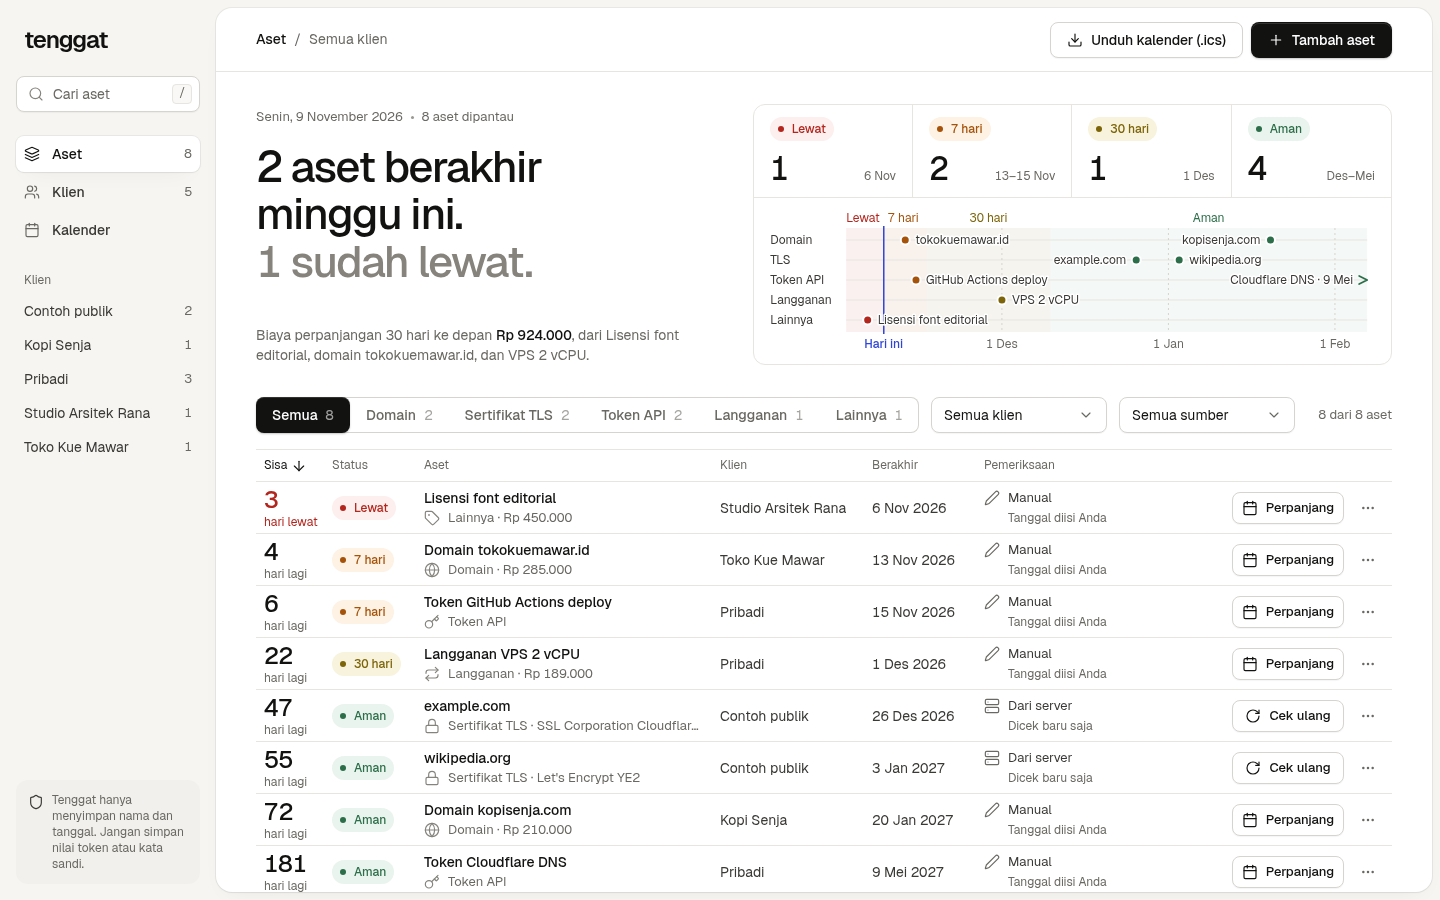
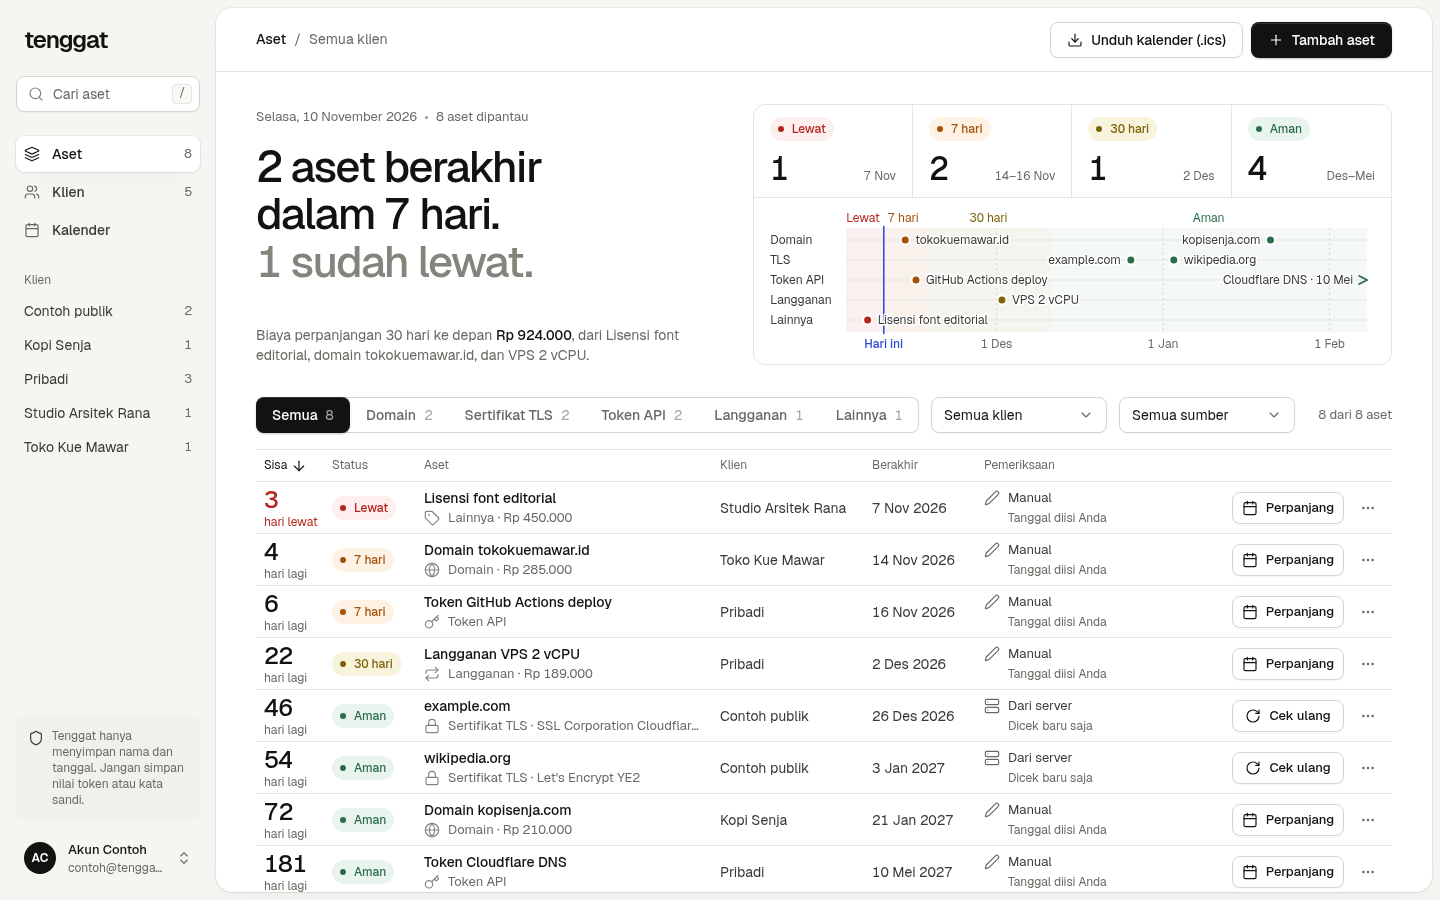
docs: accounts, privacy notes and auth endpoints in the README

diff --git a/README.md b/README.md
@@ -15,11 +15,12 @@ yang punya website atau toko online, dan tim IT kecil.
 
 ## Fitur
 
+- Akun: daftar, masuk, keluar, dan hapus akun. Setiap pengguna hanya melihat asetnya sendiri.
 - Satu daftar aset dengan status otomatis dari sisa hari: **Lewat**, **7 hari**, **30 hari**, **Aman**.
 - Sertifikat TLS dibaca langsung dari server (port 443) dan dicek ulang berkala; kegagalan cek ikut tercatat.
 - Ekspor kalender `.ics` dengan pengingat 30 dan 7 hari sebelumnya.
 - Filter per status dan klien, ringkasan jumlah per status.
-- Hanya menyimpan nama dan tanggal; nilai token atau kata sandi tidak pernah disimpan.
+- Hanya menyimpan nama dan tanggal aset; nilai token atau kata sandi layanan tidak pernah disimpan.
 - Host yang mengarah ke alamat lokal atau privat ditolak, sehingga fitur cek tidak bisa dipakai untuk mengintip
   jaringan internal (SSRF).
 
@@ -49,7 +50,9 @@ cp .env.example .env
 docker compose up -d --build
 ```
 
-Buka http://localhost:8080. Untuk mengisi data contoh: `./scripts/isi-data-contoh.sh`.
+Buka http://localhost:8080, lalu buat akun di halaman Daftar. Untuk mengisi data contoh:
+`./scripts/isi-data-contoh.sh` membuat akun `contoh@tenggat.id` dengan kata sandi `contoh-tenggat` (hanya untuk
+mencoba di komputer Anda) dan menambahkan delapan aset.
 
 Adminer (opsional): `docker compose --profile tools up -d`, lalu buka http://127.0.0.1:8081. Pilih System
 **PostgreSQL**, server `db`, lalu user, kata sandi, dan database dari `.env`.
@@ -62,6 +65,10 @@ menghapusnya.
 | Tambah aset: sertifikat dibaca dari server | Ponsel |
 |---|---|
 | ![Panel tambah aset](docs/tambah-aset.png) | ![Tampilan ponsel](docs/ponsel.png) |
+
+Halaman masuk dan daftar:
+
+![Halaman masuk](docs/masuk.png)
 
 Saat belum ada aset, halaman awal langsung meminta host pertama:
 
@@ -79,11 +86,17 @@ Saat belum ada aset, halaman awal langsung meminta host pertama:
 
 ## API
 
-Semua lewat http://localhost:8080 (nginx meneruskan ke `api`).
+Semua lewat http://localhost:8080 (nginx meneruskan ke `api`). Selain `/health`, `POST /api/akun`, dan
+`POST /api/sesi`, setiap endpoint butuh sesi (cookie `tenggat_sesi`) dan menjawab `401` tanpanya.
 
 | Method dan path | Fungsi | Status |
 |---|---|---|
 | `GET /health` | Kesehatan api, database, dan cache | 200, 503 |
+| `POST /api/akun` | Daftar akun baru dan langsung masuk | 201, 400, 409, 422, 429 |
+| `POST /api/sesi` | Masuk | 200, 401, 422, 429 |
+| `DELETE /api/sesi` | Keluar | 204 |
+| `GET /api/saya` | Akun yang sedang masuk | 200, 401 |
+| `DELETE /api/saya` | Hapus akun beserta semua asetnya | 204, 401 |
 | `GET /api/item?status=&klien=` | Daftar aset, urut tenggat terdekat | 200 |
 | `POST /api/item` | Tambah aset; sertifikat dibaca dari server | 201 + `Location`, 400, 422, 429 |
 | `GET /api/item/{id}` | Satu aset | 200, 404 |
@@ -94,20 +107,35 @@ Semua lewat http://localhost:8080 (nginx meneruskan ke `api`).
 | `GET /api/ringkasan` | Jumlah aset per status dan daftar klien | 200 |
 | `GET /api/kalender.ics` | File kalender untuk semua aset | 200 |
 
-Contoh:
+Contoh dengan curl (cookie sesi disimpan di `sesi.txt`):
 
 ```bash
-curl -i -X POST http://localhost:8080/api/item \
+curl -i -c sesi.txt -X POST http://localhost:8080/api/akun \
+  -H 'Content-Type: application/json' \
+  -d '{"nama":"Rifki","email":"rifki@contoh.id","kata_sandi":"minimal-delapan"}'
+
+curl -i -b sesi.txt -X POST http://localhost:8080/api/item \
   -H 'Content-Type: application/json' \
   -d '{"jenis":"sertifikat","klien":"Pribadi","host":"example.com"}'
 ```
 
 `GET /api/item` dan `GET /api/ringkasan` membawa header `X-Cache: HIT` atau `MISS` dari Redis.
 
+## Data dan privasi
+
+- Yang disimpan: nama dan email akun, hash kata sandi, sesi, dan metadata aset (nama layanan, jenis, klien, host,
+  tanggal, biaya, catatan). Nilai token API atau kata sandi layanan tidak pernah diminta maupun disimpan.
+- Kata sandi disimpan sebagai hash Argon2id (19 MiB, 2 putaran). Token sesi acak 256 bit; database hanya menyimpan
+  SHA-256-nya, cookie-nya `HttpOnly` dan `SameSite=Lax` (dan `Secure` di HTTPS), berlaku 30 hari, dan dicabut saat
+  keluar.
+- Permintaan yang mengubah data dari situs lain ditolak (`403`), dan percobaan masuk serta pendaftaran dibatasi per
+  pengunjung.
+- Hapus akun menghapus akun, sesi, dan semua aset pengguna itu sekaligus.
+
 ## Pengembangan
 
 ```bash
-cd api && go test ./...            # Go 1.25 atau lebih baru
+cd api && go test ./...            # Go 1.26 atau lebih baru
 cd web && pnpm install && pnpm dev # Vite meneruskan /api ke http://localhost:8080
 ```
 
@@ -123,7 +151,7 @@ docker-compose.yml, .env.example
 
 ## Kredit
 
-- [pgx](https://github.com/jackc/pgx), [go-redis](https://github.com/redis/go-redis)
+- [pgx](https://github.com/jackc/pgx), [go-redis](https://github.com/redis/go-redis), [x/crypto](https://pkg.go.dev/golang.org/x/crypto) (Argon2id)
 - [React](https://react.dev), [Vite](https://vite.dev), [TanStack Query](https://tanstack.com/query)
 - Huruf [Geist dan Geist Mono](https://vercel.com/font) (SIL Open Font License 1.1, `web/src/assets/fonts/OFL.txt`)
 - Image dasar resmi: golang, node, nginxinc/nginx-unprivileged, gcr.io/distroless/static, postgres, redis, adminer
